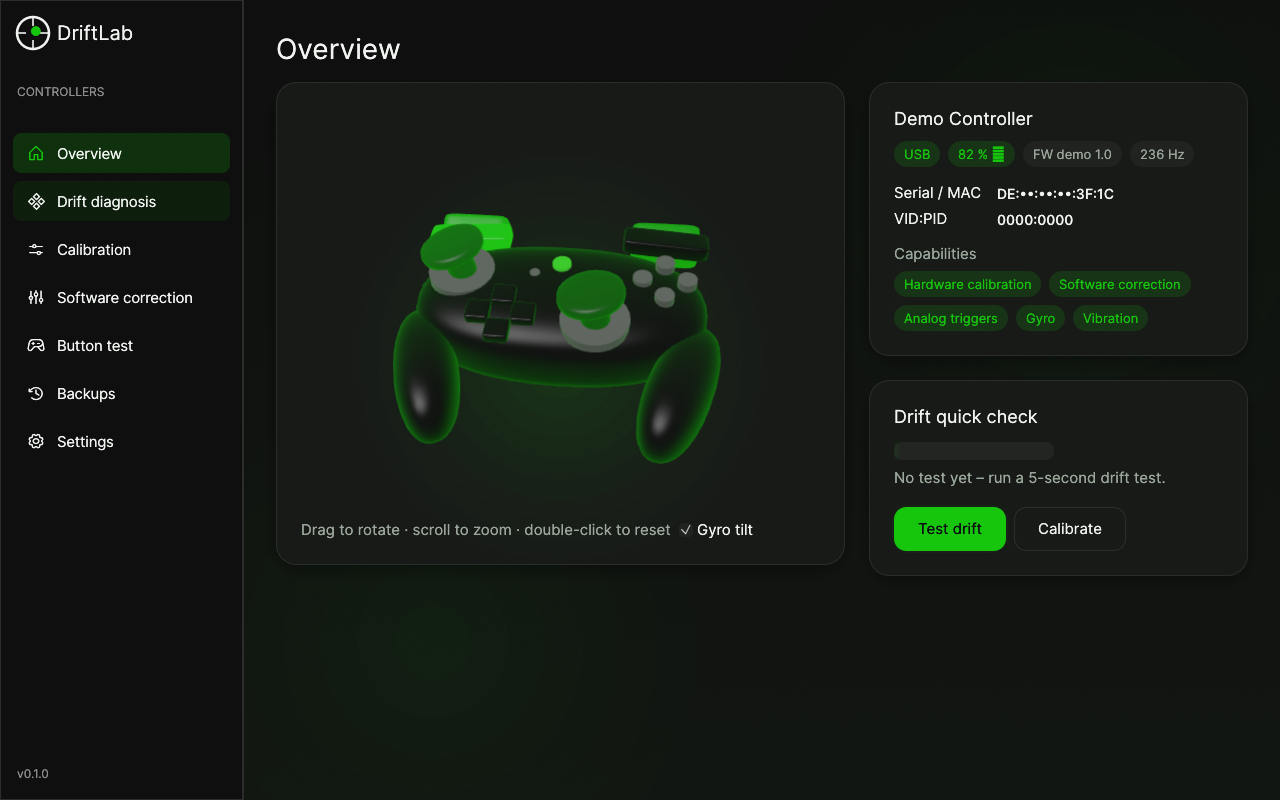
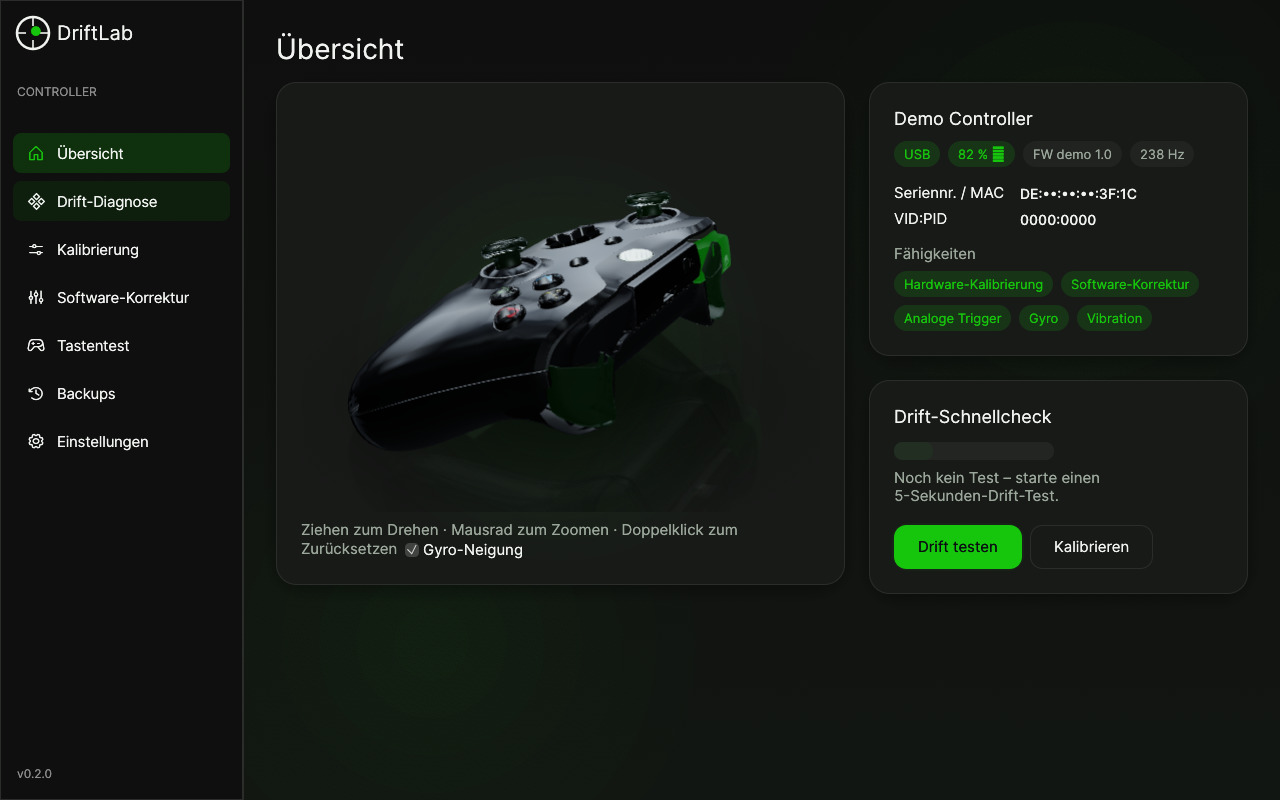
fix: bounded event queue, quarantine corrupt files, light-theme shadow, slider contrast; docs: audit, readme gallery

diff --git a/crates/driftlab-core/src/storage.rs b/crates/driftlab-core/src/storage.rs
@@ -98,6 +98,20 @@ pub fn delete_backup(path: &Path) -> Result<()> {
     Ok(std::fs::remove_file(path)?)
 }
 
+/// Write through a temporary file and rename, so a crash or full disk never leaves a half-written file behind.
+fn atomic_write(path: &Path, bytes: &[u8]) -> Result<()> {
+    let tmp = path.with_extension("tmp");
+    std::fs::write(&tmp, bytes)?;
+    std::fs::rename(&tmp, path)?;
+    Ok(())
+}
+
+/// Move an unreadable file aside (`<name>.corrupt`) so it is neither lost nor overwritten by the defaults.
+fn quarantine(path: &Path) {
+    let mut target = path.as_os_str().to_owned();
+    target.push(".corrupt");
+    let _ = std::fs::rename(path, std::path::PathBuf::from(target));
+}
 #[derive(Debug, Clone, PartialEq, Serialize, Deserialize)]
 pub struct Profile {
     pub name: String,
@@ -120,11 +134,18 @@ pub struct ProfileStore {
 
 impl ProfileStore {
     pub fn load(dir: &Path) -> Self {
-        std::fs::read(dir.join("profiles.json")).ok().and_then(|b| serde_json::from_slice(&b).ok()).unwrap_or_default()
+        let path = dir.join("profiles.json");
+        match std::fs::read(&path) {
+            Ok(b) => serde_json::from_slice(&b).unwrap_or_else(|_| {
+                quarantine(&path);
+                Self::default()
+            }),
+            Err(_) => Self::default(),
+        }
     }
     pub fn save(&self, dir: &Path) -> Result<()> {
         std::fs::create_dir_all(dir)?;
-        std::fs::write(dir.join("profiles.json"), serde_json::to_vec_pretty(self)?)?;
+        atomic_write(&dir.join("profiles.json"), &serde_json::to_vec_pretty(self)?)?;
         Ok(())
     }
 }
@@ -177,12 +198,19 @@ impl Default for Settings {
 
 impl Settings {
     pub fn load(dir: &Path) -> Self {
-        std::fs::read_to_string(dir.join("settings.toml")).ok().and_then(|s| toml::from_str(&s).ok()).unwrap_or_default()
+        let path = dir.join("settings.toml");
+        match std::fs::read_to_string(&path) {
+            Ok(s) => toml::from_str(&s).unwrap_or_else(|_| {
+                quarantine(&path);
+                Self::default()
+            }),
+            Err(_) => Self::default(),
+        }
     }
     pub fn save(&self, dir: &Path) -> Result<()> {
         std::fs::create_dir_all(dir)?;
         let s = toml::to_string_pretty(self).map_err(|e| DriverError::Protocol(e.to_string()))?;
-        std::fs::write(dir.join("settings.toml"), s)?;
+        atomic_write(&dir.join("settings.toml"), s.as_bytes())?;
         Ok(())
     }
 }
@@ -257,5 +285,30 @@ mod tests {
         s.save(&d).unwrap();
         assert_eq!(Settings::load(&d), s);
         let _ = std::fs::remove_dir_all(&d);
+    }
+
+    #[test]
+    fn corrupt_profiles_and_settings_are_quarantined_not_overwritten() {
+        let d = tmp("corrupt");
+        std::fs::create_dir_all(&d).unwrap();
+        std::fs::write(d.join("profiles.json"), b"{ not json").unwrap();
+        std::fs::write(d.join("settings.toml"), b"= = =").unwrap();
+        assert_eq!(ProfileStore::load(&d), ProfileStore::default());
+        assert_eq!(Settings::load(&d), Settings::default());
+        assert!(d.join("profiles.json.corrupt").exists());
+        assert!(d.join("settings.toml.corrupt").exists());
+        ProfileStore::default().save(&d).unwrap();
+        assert!(d.join("profiles.json.corrupt").exists(), "quarantined copy must survive the next save");
+    }
+
+    #[test]
+    fn save_into_unwritable_location_reports_error() {
+        let d = tmp("unwritable");
+        std::fs::create_dir_all(&d).unwrap();
+        let blocker = d.join("file");
+        std::fs::write(&blocker, b"x").unwrap();
+        // a *file* where the data directory should be: create_dir_all must fail, no panic
+        assert!(ProfileStore::default().save(&blocker).is_err());
+        assert!(Settings::default().save(&blocker).is_err());
     }
 }

diff --git a/crates/driftlab-core/src/manager.rs b/crates/driftlab-core/src/manager.rs
@@ -22,6 +22,9 @@ pub enum Event {
 /// Upper bound for the per-device polling rate in Hz (0 = as fast as the device delivers).
 pub static POLL_HZ: std::sync::atomic::AtomicU32 = std::sync::atomic::AtomicU32::new(250);
 
+/// Back-pressure limit for the UI event queue (about four seconds of input at 250 Hz).
+const MAX_QUEUED_EVENTS: usize = 1024;
+
 type Job = Box<dyn FnOnce(&mut dyn ControllerDriver) + Send>;
 
 /// Handle to run closures on the device thread.
@@ -61,7 +64,10 @@ pub fn spawn_device(mut driver: Box<dyn ControllerDriver>, events: Sender<Event>
                 match driver.poll() {
                     Ok(s) => {
                         errs = 0;
-                        let _ = events.send(Event::Input(id.clone(), Box::new(s)));
+                        // UI not draining (minimised / occluded window): drop samples instead of growing the queue without bound.
+                        if events.len() < MAX_QUEUED_EVENTS {
+                            let _ = events.send(Event::Input(id.clone(), Box::new(s)));
+                        }
                         let hz = POLL_HZ.load(Ordering::Relaxed);
                         if hz > 0 {
                             let tick = Duration::from_micros(1_000_000 / u64::from(hz));
@@ -305,5 +311,17 @@ mod tests {
             }
         }
         assert!(removed);
+    }
+
+    #[test]
+    fn event_queue_stays_bounded_when_ui_does_not_drain() {
+        POLL_HZ.store(0, Ordering::Relaxed); // as fast as the mock delivers
+        let (tx, rx) = unbounded();
+        let stop = Arc::new(AtomicBool::new(false));
+        spawn_device(Box::new(crate::mock::MockDriver::new(Family::DualSense)), tx, stop.clone());
+        std::thread::sleep(Duration::from_millis(800));
+        assert!(rx.len() <= MAX_QUEUED_EVENTS + 2, "queue grew to {}", rx.len());
+        stop.store(true, Ordering::Relaxed);
+        POLL_HZ.store(250, Ordering::Relaxed);
     }
 }

diff --git a/crates/driftlab-app/src/theme.rs b/crates/driftlab-app/src/theme.rs
@@ -327,7 +327,9 @@ pub fn apply(ctx: &egui::Context, t: &Tokens, scale: f32) {
     }
     v.widgets.noninteractive.bg_stroke = Stroke::new(1.0, c32(t.border));
     v.widgets.noninteractive.bg_fill = c32(t.card);
-    v.widgets.inactive.bg_fill = c32(lerp_rgb(t.card, t.border, 0.5));
+    // slider rails / checkbox frames use bg_fill: keep them clearly visible on every theme
+    v.widgets.inactive.bg_fill = c32(lerp_rgb(t.card, t.text, 0.22));
+    v.slider_trailing_fill = true;
     v.widgets.inactive.weak_bg_fill = c32(lerp_rgb(t.card, t.border, 0.5));
     v.widgets.hovered.bg_fill = c32(t.card_hover);
     v.widgets.hovered.weak_bg_fill = c32(t.card_hover);

diff --git a/tools/models/prep_dualsense.py b/tools/models/prep_dualsense.py
@@ -1,4 +1,4 @@
-"""Prepare 'Sony PS5 DualSense Controller' by be the knight (CC BY 4.0) for DriftLab.
+"""Prepare 'Sony PS5 DualSense Controller' by be the knight (CC BY 4.0) for DriftLab.
 
 blender -b -P tools/models/prep_dualsense.py -- --in assets/models/incoming/dualsense.glb --out assets/models/dualsense.glb [--preview x.png]
 Changes: re-scaled to 160 mm, re-oriented (triggers +Y), PS logo removed, moving parts split into named nodes with real pivots,

diff --git a/tools/models/prep_lib.py b/tools/models/prep_lib.py
@@ -1,4 +1,4 @@
-"""Shared helpers to turn a downloaded (CC BY) controller model into a DriftLab asset.
+"""Shared helpers to turn a downloaded (CC BY) controller model into a DriftLab asset.
 
 Conventions of the output (Blender space): +X right, +Y towards the triggers (away from the player),
 +Z up, origin at the middle of the housing, real-world size in metres. The glTF exporter converts to Y-up.

diff --git a/tools/models/prep_xbox.py b/tools/models/prep_xbox.py
@@ -1,4 +1,4 @@
-"""Prepare 'Xbox One X/S' by TdoubleU8 (CC BY 4.0) for DriftLab.
+"""Prepare 'Xbox One X/S' by TdoubleU8 (CC BY 4.0) for DriftLab.
 
 blender -b -P tools/models/prep_xbox.py -- --in assets/models/incoming/xbox.glb --out assets/models/xbox.glb
 The source file contains two consoles and two controllers; only the black controller (mesh 'Object_11') is kept.

diff --git a/docs/AUDIT.md b/docs/AUDIT.md
@@ -1,0 +1,42 @@
+# Audit (v0.2.0)
+
+Method: full read of the code base, docs and CI; search for `TODO`/`FIXME`/`todo!`/`unimplemented!` (none found); GitHub issues
+(none were open); every screen of the app captured in demo mode (MockDriver) and inspected; 8.5-minute demo soak test with
+memory/CPU sampling; unit and integration tests (`cargo test --workspace`).
+
+## Findings
+
+| # | Prio | Finding | Status |
+|---|---|---|---|
+| 1 | high | **Memory growth while the window does not repaint** (minimised / occluded): the input queue between device threads and the UI was unbounded; ≈ 2 MB/min at 250 Hz (308 → 326 MB in 8 min). | Fixed: queue back-pressure (`MAX_QUEUED_EVENTS`), regression test `event_queue_stays_bounded_when_ui_does_not_drain`. After the fix memory stayed flat at 314 MB over 4 min of the same run. |
+| 2 | high | **Corrupt `profiles.json` / `settings.toml` were silently replaced by defaults and then overwritten on the next save** (user profiles lost). | Fixed: unreadable files are moved to `*.corrupt`; saves are atomic (temp file + rename). Tests added, including an unwritable data directory. |
+| 3 | high | Light themes: the 3D view showed a grey rectangle with hard edges (ground shadow was not faded out inside the viewport). | Fixed in `shader.wgsl` (falloff). |
+| 4 | medium | Dark themes: slider rails and checkbox frames nearly invisible (low contrast). | Fixed (`theme.rs`), sliders show a filled trailing part. |
+| 5 | medium | Model licence texts / About dialog named models that are not used (miwaVV, Vrah) and an unverified author name. | Fixed. Authors and licences verified through the public Sketchfab API (`user.displayName`, `license`); all three used models are CC BY 4.0. |
+| 6 | medium | Manufacturer lettering ("SONY", "XBOX", SHARE/OPTIONS, regulatory label) visible on the models. | Removed from textures / geometry. |
+| 7 | medium | PowerShell `Set-Content -Encoding utf8` adds a BOM; a BOM in `shader.wgsl` broke shader compilation during this audit. | Fixed; no tracked file starts with a BOM. |
+| 8 | low | DualSense bumpers belong to the shell mesh in the source model and are not separately animated; Edge/Elite are derived models. | Documented (README, DECISIONS 15–19), issue opened. |
+| 9 | low | Hardware calibration write paths unverified on real hardware. | Documented; needs community testing (`docs/HARDWARE_TESTING.md`), issue opened. |
+| 10 | low | No automated test at 150 % / 200 % display scaling. | Documented, issue opened. |
+| 11 | low | No animated GIF in the README. | Issue opened. |
+
+## Edge cases checked
+
+| Case | Result |
+|---|---|
+| Controller disconnected during the wizard | Handled (`wizard::on_disconnect`, safe cancel, covered by `tests/wizard.rs`) |
+| Fast plug / unplug | Device list fades entries out; removal is idempotent; mock lifecycle test |
+| No controller | Empty state shown |
+| Corrupt profile / settings file | Quarantined, defaults used (see finding 2) |
+| Unwritable data directory | Errors are returned, no panic (test) |
+| Language | DE/EN key parity enforced by a test; all screens captured in German |
+
+## Performance (demo mode, release build, AMD Radeon 760M iGPU, Windows 11)
+
+| Metric | Result |
+|---|---|
+| CPU while animating | ≈ 1.5–3 % of total CPU (8 logical cores) |
+| CPU while idle / occluded | ≈ 0.2 % |
+| Memory, 8.5 min before fix | 308 → 326 MB (growing) |
+| Memory, 4 min after fix | 314 MB (flat) |
+| Frame rate | not measured with an on-screen counter; rendering is vsync-limited (60 Hz) and CPU load stays low |

diff --git a/README.md b/README.md
@@ -57,6 +57,32 @@ Stick drift has two causes: a **bad calibration** (fixable) or **worn potentiome
 </tr>
 </table>
 
+## The 3D models
+
+<table>
+<tr>
+<td><img src=".github/assets/models/dualsense.png" alt="DualSense"><br><sub>DualSense</sub></td>
+<td><img src=".github/assets/models/edge.png" alt="DualSense Edge"><br><sub>DualSense Edge (approximation)</sub></td>
+<td><img src=".github/assets/models/ds4.png" alt="DualShock 4"><br><sub>DualShock 4</sub></td>
+</tr>
+<tr>
+<td><img src=".github/assets/models/xbox.png" alt="Xbox One / Series"><br><sub>Xbox One / Series</sub></td>
+<td><img src=".github/assets/models/elite.png" alt="Xbox Elite"><br><sub>Xbox Elite (approximation)</sub></td>
+<td></td>
+</tr>
+</table>
+
+*DriftLab is not affiliated with Sony, Microsoft or any controller manufacturer. Product names are trademarks of their owners; no logos are shown.*
+
+## Known limitations
+
+- Hardware calibration (DualShock 4, DualSense / Edge) follows the public protocol and is covered by tests, but **has not been verified on physical hardware** – see [`docs/HARDWARE_TESTING.md`](docs/HARDWARE_TESTING.md).
+- No system-wide virtual controller (no maintained driver on Windows/macOS); use the Steam Input export.
+- Edge and Elite 3D models are approximations (standard model + own paddles). DualSense bumpers are part of the shell mesh and not animated separately; the DualSense touchpad is shown black.
+- Rumble for Xbox / generic pads is not implemented; Xbox controllers have no open calibration protocol.
+- Release binaries are not code-signed (SmartScreen / Gatekeeper warnings).
+- Not tested on 200 % Windows scaling and on Linux/macOS hardware beyond CI builds.
+
 ## Supported controllers
 
 ✅ works · ⚠ limited (see notes) · ❌ not available

diff --git a/CREDITS.md b/CREDITS.md
@@ -13,8 +13,8 @@ Only **three** source models are used. The two "Edge / Elite" variants are deriv
 
 | Model in DriftLab | Source model | Author | Own additions |
 |---|---|---|---|
-| DualSense | [Sony PS5 DualSense Controller](https://sketchfab.com/3d-models/b1d054ee67204ec1984d5fbebd707cde) | be the knight (Jayakrishnan Marath) | solid satin button caps and d-pad blocks, △ ○ ✕ □ symbols, black touchpad material |
-| DualSense Edge | same DualSense model | be the knight (Jayakrishnan Marath) | same as above **plus four rear paddles** (own modelling) |
+| DualSense | [Sony PS5 DualSense Controller](https://sketchfab.com/3d-models/b1d054ee67204ec1984d5fbebd707cde) | be the knight (jayhystic22) | solid satin button caps and d-pad blocks, △ ○ ✕ □ symbols, black touchpad material |
+| DualSense Edge | same DualSense model | be the knight (jayhystic22) | same as above **plus four rear paddles** (own modelling) |
 | DualShock 4 | [DualShock 4 PlayStation Controller](https://sketchfab.com/3d-models/e3c2f0dc16524fc19cdde45bad1de1a9) | shaielwolf | plain black PS button, lettering painted out of the textures |
 | Xbox One / Series | [Xbox One X/S (Controller)](https://sketchfab.com/3d-models/294f13ab554f4d4d832b271045bda4fa) | TdoubleU8 | logo removed, plain glowing guide button, repaired trigger meshes |
 | Xbox Elite | same Xbox One model | TdoubleU8 | same as above **plus four rear paddles** (own modelling) |
@@ -45,3 +45,4 @@ not scans of those products.
 ## Libraries
 
 egui / eframe, wgpu, gltf, glam, hidapi, gilrs, image and the other crates listed in `Cargo.lock` – see their respective licences (checked with `cargo deny`).
+

diff --git a/docs/DECISIONS.md b/docs/DECISIONS.md
@@ -23,3 +23,5 @@ Decisions taken while building v0.1.0 (the brief asked for these to be recorded 
 | 17 | **Models are prepared by reproducible Blender scripts** (`tools/models/`): orientation, scale, removal of logos/lettering, named movable parts with real pivots, solid cap materials and own symbols, JPEG textures ≤ 2K. | The sources are not committed (`assets/models/incoming/` is ignored); anyone with the CC BY downloads can regenerate the `.glb` files. |
 | 18 | **PBR renderer with image-based lighting** (Poly Haven CC0 `studio_small_03`), key light with PCF shadow, ACES tone mapping, 4× MSAA, ground shadow and reflection. | Needed for believable plastics; the old flat shading made the real models look wrong. |
 | 19 | **DualSense touchpad is rendered black** although the real DualSense touchpad is white. | Requested design; switch back with the `--whitepad` option of `tools/models/prep_dualsense.py`. |
+| 20 | **Release version is v0.2.0, not v1.0.0.** | Hardware calibration (DualShock 4 / DualSense) has never been verified on a physical controller and Edge/Elite are approximations; calling that 1.0 would overstate the maturity. v1.0.0 is tied to the milestone 1.0 (hardware verification). |
+| 21 | **Corrupt user files are quarantined (*.corrupt), writes are atomic, the UI event queue is bounded.** | Found by the v0.2.0 audit (docs/AUDIT.md): silent loss of profiles and slow memory growth. |

diff --git a/assets/models/LICENSES/README.md b/assets/models/LICENSES/README.md
@@ -3,7 +3,7 @@
 The three source models are licensed **CC BY 4.0** (full text: `CC-BY-4.0.txt`). The HDRI is **CC0 1.0** (`CC0-1.0.txt`).
 Attribution required by CC BY 4.0 (title, author, source, licence, changes):
 
-1. **"Sony PS5 DualSense Controller"** by *be the knight* (Jayakrishnan Marath) – https://sketchfab.com/3d-models/b1d054ee67204ec1984d5fbebd707cde – CC BY 4.0.
+1. **"Sony PS5 DualSense Controller"** by *be the knight* (jayhystic22) – https://sketchfab.com/3d-models/b1d054ee67204ec1984d5fbebd707cde – CC BY 4.0.
    Used for `dualsense.glb` and, extended with own paddles, for `dualsense_edge.glb`.
    Changes: re-scaled, origin re-centred, moving parts split into named nodes, logos and printed lettering removed, decimated,
    textures resized, button caps / d-pad / touchpad / triggers re-materialled, own face symbols and d-pad blocks added (Edge: own rear paddles).
@@ -19,3 +19,4 @@ Own work (not from the sources above): rear paddles of the Edge / Elite models, 
 Evaluated but **not used**: "Dualsense" by miwaVV, "XBOX ELITE 2" by Vrah (Wee.Patt) and an Elite alternative by Rusfort.
 
 The licence of these works does not imply endorsement by the authors. If you are an author and want a change to this attribution, please open an issue.
+

diff --git a/CHANGELOG.md b/CHANGELOG.md
@@ -1,4 +1,4 @@
-# Changelog
+# Changelog
 
 All notable changes to this project are documented here. The format follows
 [Keep a Changelog](https://keepachangelog.com/en/1.1.0/) and the project uses
@@ -14,7 +14,14 @@ All notable changes to this project are documented here. The format follows
 - Moving parts (sticks, triggers, bumpers, d-pad, face buttons, touchpad, buttons) are animated through named glTF nodes with real pivots.
 - Manufacturer lettering and logos are removed from all models; face symbols and d-pad blocks of the DualSense models were rebuilt as own work.
 
+### Fixed
+- Memory growth while the window was minimised (unbounded input queue).
+- Corrupt `profiles.json` / `settings.toml` are quarantined instead of overwritten; atomic saves.
+- Hard-edged shadow rectangle on light themes; invisible slider rails on dark themes.
+- Author/licence data verified against the Sketchfab API.
+
 ### Added
+- `docs/AUDIT.md`.
 - `tools/models/`: reproducible Blender preparation scripts for every model.
 - Credits for models and HDRI in `CREDITS.md`, `assets/models/LICENSES/` and the About dialog.
 
